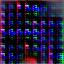
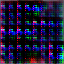
add

diff --git a/hw4/util.py b/hw4/util.py
@@ -10,7 +10,7 @@ import time, os, math
 assert torch and nn and Variable and F and Dataset and DataLoader
 assert time and np
 
-torch.manual_seed(510)
+torch.manual_seed(923)
 
 class DataManager():
     def __init__(self,latent_dim, discriminator_update_num, generator_update_num):

diff --git a/hw4/gan.py b/hw4/gan.py
@@ -8,7 +8,7 @@ BATCH_SIZE= 128
 EPOCHS= 100
 LATENT_DIM= 512
 DISCRIMINATOR_UPDATE_NUM= 1
-GENERATOR_UPDATE_NUM= 3
+GENERATOR_UPDATE_NUM= 15
 OUTPUT_DIR= './data/gan'
 
 dm = DataManager(LATENT_DIM,DISCRIMINATOR_UPDATE_NUM,GENERATOR_UPDATE_NUM)
